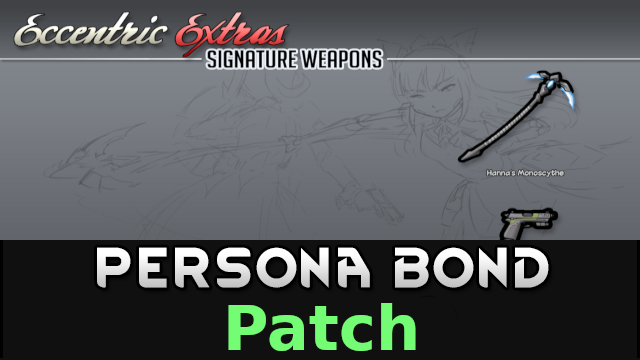
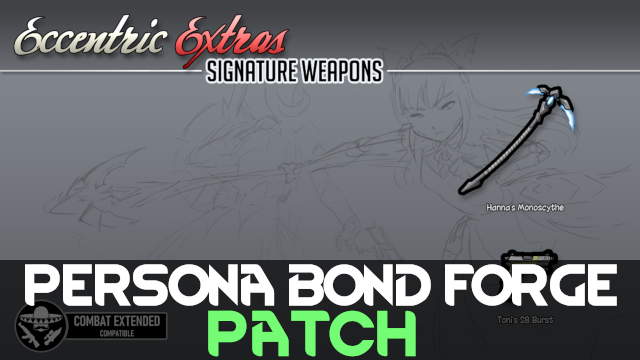
Update Preview.png and README.md

diff --git a/README.md b/README.md
@@ -2,6 +2,14 @@
 
 ![](https://github.com/Daria40K/Persona-Bond-Patch-for-EX-Signature-Weapons/blob/main/About/Preview.png)
 
+## Required Mods
+- [Persona Bond Forge](https://steamcommunity.com/workshop/filedetails/?id=2178003816) (Steam)
+- [Eccentric Extras - Signature Weapons](https://steamcommunity.com/sharedfiles/filedetails/?id=2706558469) (Steam)
+
+## Download
+- [Steam](https://steamcommunity.com/sharedfiles/filedetails/?id=2760914525)
+- [GitHub](https://github.com/Daria40K/Persona-Bond-Patch-for-EX-Signature-Weapons/releases)
+
 ## Weapons Patch
 - Hanna's Monoscythe
 - Toni's S8 burst pistol
